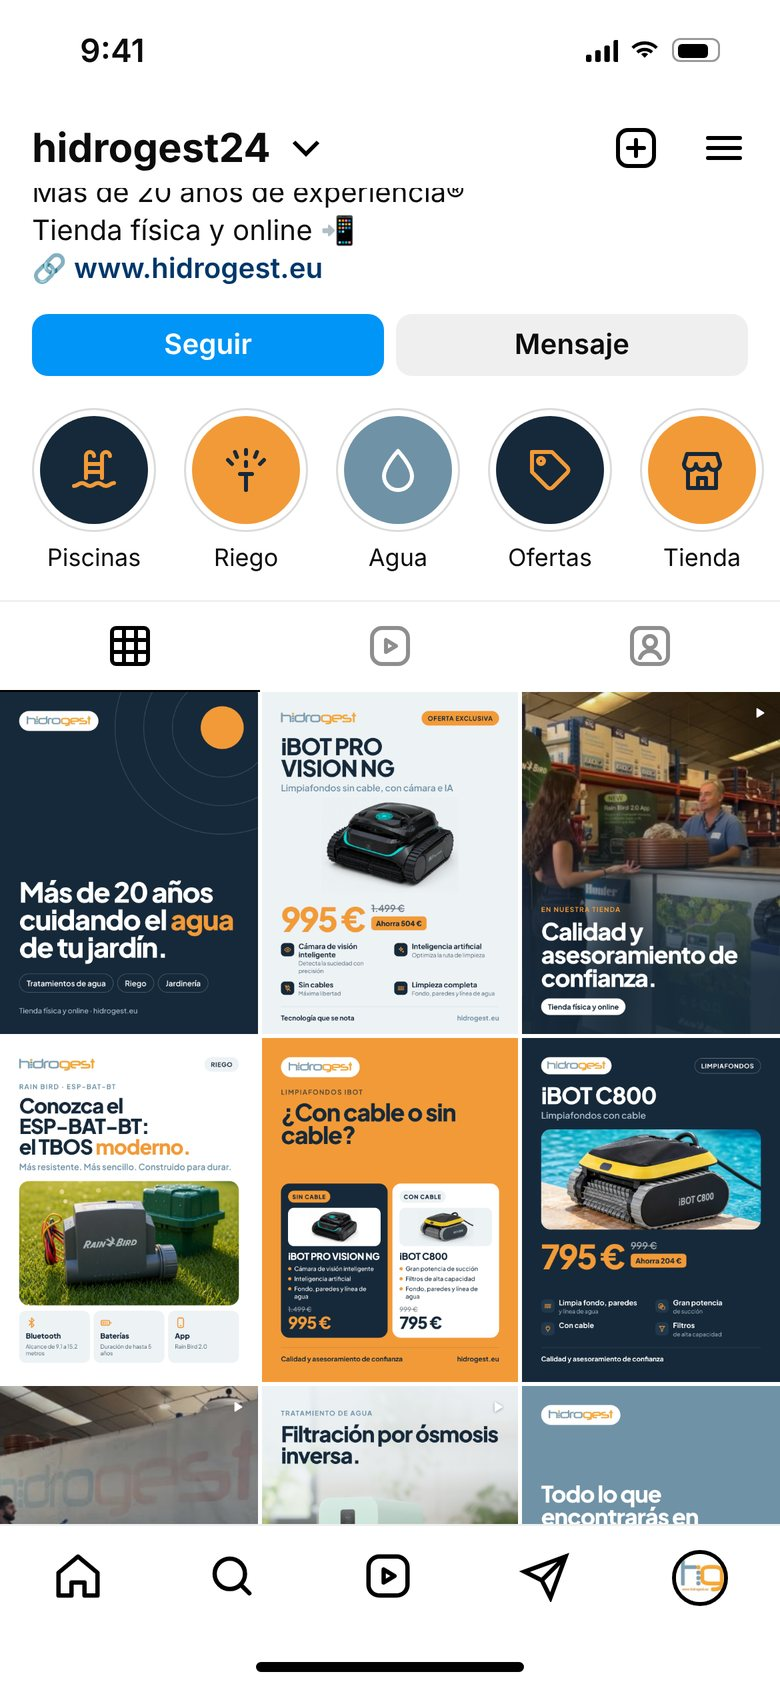
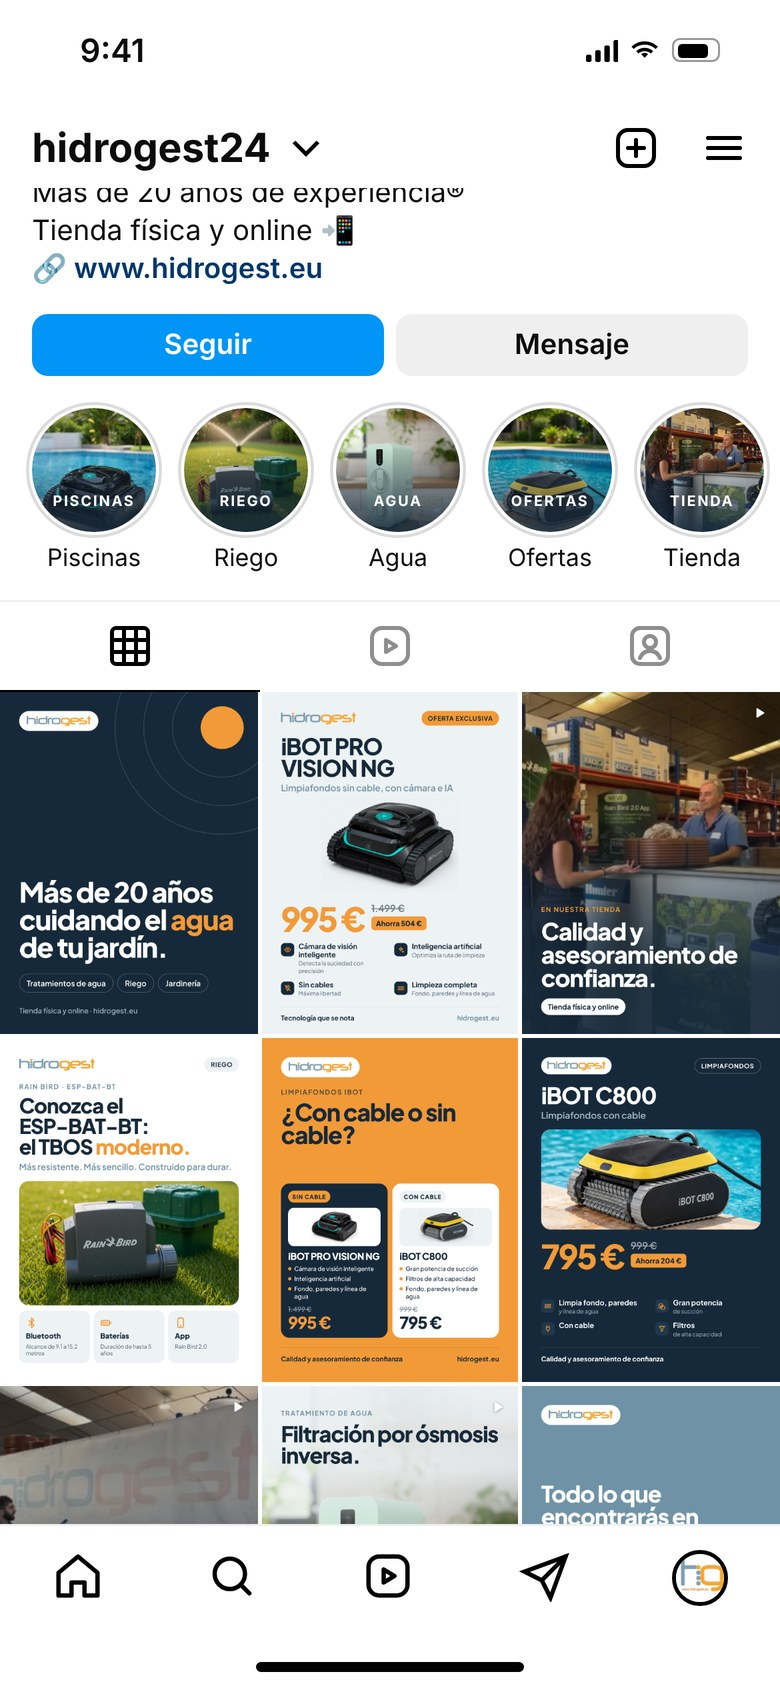
Casos: portadas de destacadas con foto y degradado (Hidrogest y Criscolor)
Claude-Session: https://claude.ai/code/session_01GzdQ3RYke6gHzhkWUUZSNy

Changed region(s): [[0.4308, 0.2156, 0.9846, 0.3389], [0.0308, 0.2156, 0.4, 0.3389]]

diff --git a/index.html b/index.html
@@ -250,7 +250,7 @@
         <div class="case-phones">
           <div class="cph"><span class="cph-tag a">Antes</span><div class="iphone"><div class="island"></div><div class="scr"><img src="assets/casos/hidrogest-antes.jpg" alt="Instagram de Hidrogest antes" loading="lazy"></div></div></div>
           <i class="cph-arrow"><svg viewBox="0 0 24 24" fill="none" stroke="currentColor" stroke-width="2.6" stroke-linecap="round" stroke-linejoin="round"><path d="M5 12h14M13 6l6 6-6 6"/></svg></i>
-          <div class="cph"><span class="cph-tag d">Después</span><div class="iphone"><div class="island"></div><div class="scr"><img src="assets/casos/hidrogest-despues.jpg" alt="Instagram de Hidrogest después" loading="lazy"></div></div></div>
+          <div class="cph"><span class="cph-tag d">Después</span><div class="iphone"><div class="island"></div><div class="scr"><img src="assets/casos/hidrogest-despues.jpg?v=7" alt="Instagram de Hidrogest después" loading="lazy"></div></div></div>
         </div>
       </div>
       <div class="cpairs"><figure class="cpair"><div class="cpair-imgs"><div class="cp-a"><img src="assets/casos/hidrogest-p1-antes.jpg" alt="iBOT PRO VISION NG antes" loading="lazy"><span>Antes</span></div><i class="cp-arrow"><svg viewBox="0 0 24 24" fill="none" stroke="currentColor" stroke-width="2.6" stroke-linecap="round" stroke-linejoin="round"><path d="M5 12h14M13 6l6 6-6 6"/></svg></i><div class="cp-d"><img src="assets/casos/hidrogest-p1-despues.jpg" alt="iBOT PRO VISION NG después" loading="lazy"><span>Después</span></div></div><figcaption>iBOT PRO VISION NG</figcaption></figure><figure class="cpair"><div class="cpair-imgs"><div class="cp-a"><img src="assets/casos/hidrogest-p2-antes.jpg" alt="iBOT C800 antes" loading="lazy"><span>Antes</span></div><i class="cp-arrow"><svg viewBox="0 0 24 24" fill="none" stroke="currentColor" stroke-width="2.6" stroke-linecap="round" stroke-linejoin="round"><path d="M5 12h14M13 6l6 6-6 6"/></svg></i><div class="cp-d"><img src="assets/casos/hidrogest-p2-despues.jpg" alt="iBOT C800 después" loading="lazy"><span>Después</span></div></div><figcaption>iBOT C800</figcaption></figure><figure class="cpair"><div class="cpair-imgs"><div class="cp-a"><img src="assets/casos/hidrogest-p3-antes.jpg" alt="Rain Bird ESP-BAT-BT antes" loading="lazy"><span>Antes</span></div><i class="cp-arrow"><svg viewBox="0 0 24 24" fill="none" stroke="currentColor" stroke-width="2.6" stroke-linecap="round" stroke-linejoin="round"><path d="M5 12h14M13 6l6 6-6 6"/></svg></i><div class="cp-d"><img src="assets/casos/hidrogest-p3-despues.jpg" alt="Rain Bird ESP-BAT-BT después" loading="lazy"><span>Después</span></div></div><figcaption>Rain Bird ESP-BAT-BT</figcaption></figure><figure class="cpair"><div class="cpair-imgs"><div class="cp-a"><img src="assets/casos/hidrogest-p4-antes.jpg" alt="Ósmosis inversa antes" loading="lazy"><span>Antes</span></div><i class="cp-arrow"><svg viewBox="0 0 24 24" fill="none" stroke="currentColor" stroke-width="2.6" stroke-linecap="round" stroke-linejoin="round"><path d="M5 12h14M13 6l6 6-6 6"/></svg></i><div class="cp-d"><img src="assets/casos/hidrogest-p4-despues.jpg" alt="Ósmosis inversa después" loading="lazy"><span>Después</span></div></div><figcaption>Ósmosis inversa</figcaption></figure></div>
@@ -264,7 +264,7 @@
         <div class="case-phones">
           <div class="cph"><span class="cph-tag a">Antes</span><div class="iphone"><div class="island"></div><div class="scr"><img src="assets/casos/criscolor-antes.jpg" alt="Instagram de Criscolor antes" loading="lazy"></div></div></div>
           <i class="cph-arrow"><svg viewBox="0 0 24 24" fill="none" stroke="currentColor" stroke-width="2.6" stroke-linecap="round" stroke-linejoin="round"><path d="M5 12h14M13 6l6 6-6 6"/></svg></i>
-          <div class="cph"><span class="cph-tag d">Después</span><div class="iphone"><div class="island"></div><div class="scr"><img src="assets/casos/criscolor-despues.jpg" alt="Instagram de Criscolor después" loading="lazy"></div></div></div>
+          <div class="cph"><span class="cph-tag d">Después</span><div class="iphone"><div class="island"></div><div class="scr"><img src="assets/casos/criscolor-despues.jpg?v=7" alt="Instagram de Criscolor después" loading="lazy"></div></div></div>
         </div>
       </div>
       <div class="cpairs"><figure class="cpair"><div class="cpair-imgs"><div class="cp-a"><img src="assets/casos/criscolor-p1-antes.jpg" alt="Producto antes" loading="lazy"><span>Antes</span></div><i class="cp-arrow"><svg viewBox="0 0 24 24" fill="none" stroke="currentColor" stroke-width="2.6" stroke-linecap="round" stroke-linejoin="round"><path d="M5 12h14M13 6l6 6-6 6"/></svg></i><div class="cp-d"><img src="assets/casos/criscolor-p1-despues.jpg" alt="Producto después" loading="lazy"><span>Después</span></div></div><figcaption>Producto</figcaption></figure><figure class="cpair"><div class="cpair-imgs"><div class="cp-a"><img src="assets/casos/criscolor-p2-antes.jpg" alt="Temporada antes" loading="lazy"><span>Antes</span></div><i class="cp-arrow"><svg viewBox="0 0 24 24" fill="none" stroke="currentColor" stroke-width="2.6" stroke-linecap="round" stroke-linejoin="round"><path d="M5 12h14M13 6l6 6-6 6"/></svg></i><div class="cp-d"><img src="assets/casos/criscolor-p2-despues.jpg" alt="Temporada después" loading="lazy"><span>Después</span></div></div><figcaption>Temporada</figcaption></figure><figure class="cpair"><div class="cpair-imgs"><div class="cp-a"><img src="assets/casos/criscolor-p3-antes.jpg" alt="Marca antes" loading="lazy"><span>Antes</span></div><i class="cp-arrow"><svg viewBox="0 0 24 24" fill="none" stroke="currentColor" stroke-width="2.6" stroke-linecap="round" stroke-linejoin="round"><path d="M5 12h14M13 6l6 6-6 6"/></svg></i><div class="cp-d"><img src="assets/casos/criscolor-p3-despues.jpg" alt="Marca después" loading="lazy"><span>Después</span></div></div><figcaption>Marca</figcaption></figure><figure class="cpair"><div class="cpair-imgs"><div class="cp-a"><img src="assets/casos/criscolor-p4-antes.jpg" alt="Venta de mostrador antes" loading="lazy"><span>Antes</span></div><i class="cp-arrow"><svg viewBox="0 0 24 24" fill="none" stroke="currentColor" stroke-width="2.6" stroke-linecap="round" stroke-linejoin="round"><path d="M5 12h14M13 6l6 6-6 6"/></svg></i><div class="cp-d"><img src="assets/casos/criscolor-p4-despues.jpg" alt="Venta de mostrador después" loading="lazy"><span>Después</span></div></div><figcaption>Venta de mostrador</figcaption></figure></div>
